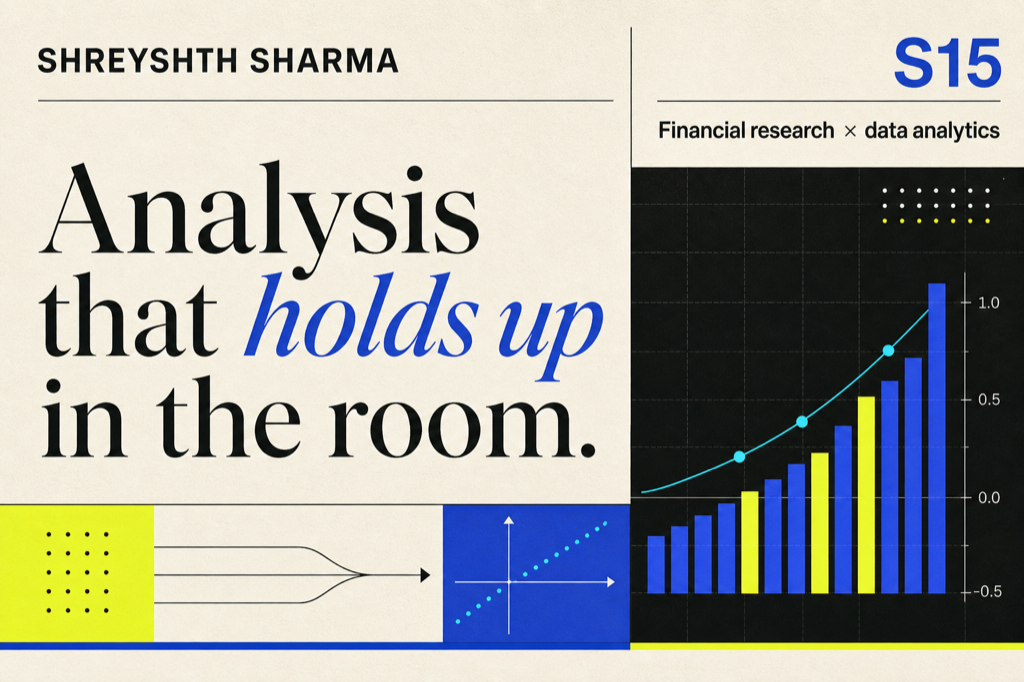
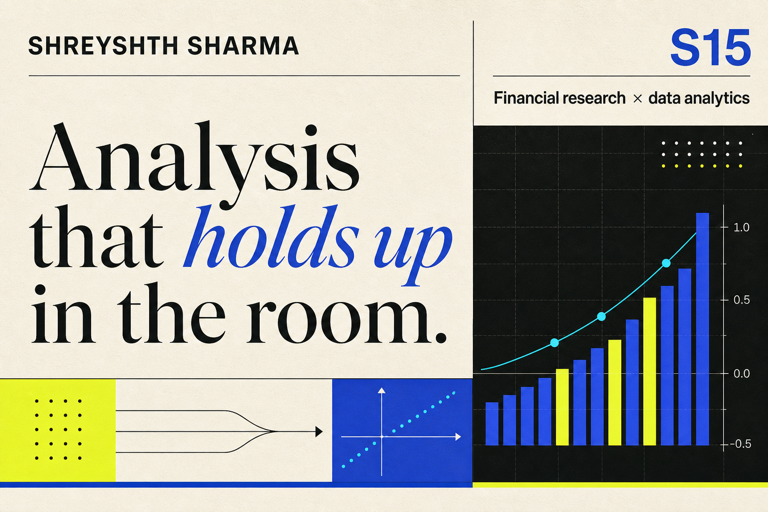
Fit social preview to hosting limits

diff --git a/app/layout.tsx b/app/layout.tsx
@@ -50,8 +50,8 @@ export async function generateMetadata(): Promise<Metadata> {
       images: [
         {
           url: imageUrl,
-          width: 1024,
-          height: 682,
+          width: 768,
+          height: 512,
           alt: "Shreyshth Sharma — Financial Research and Data Analytics",
         },
       ],
